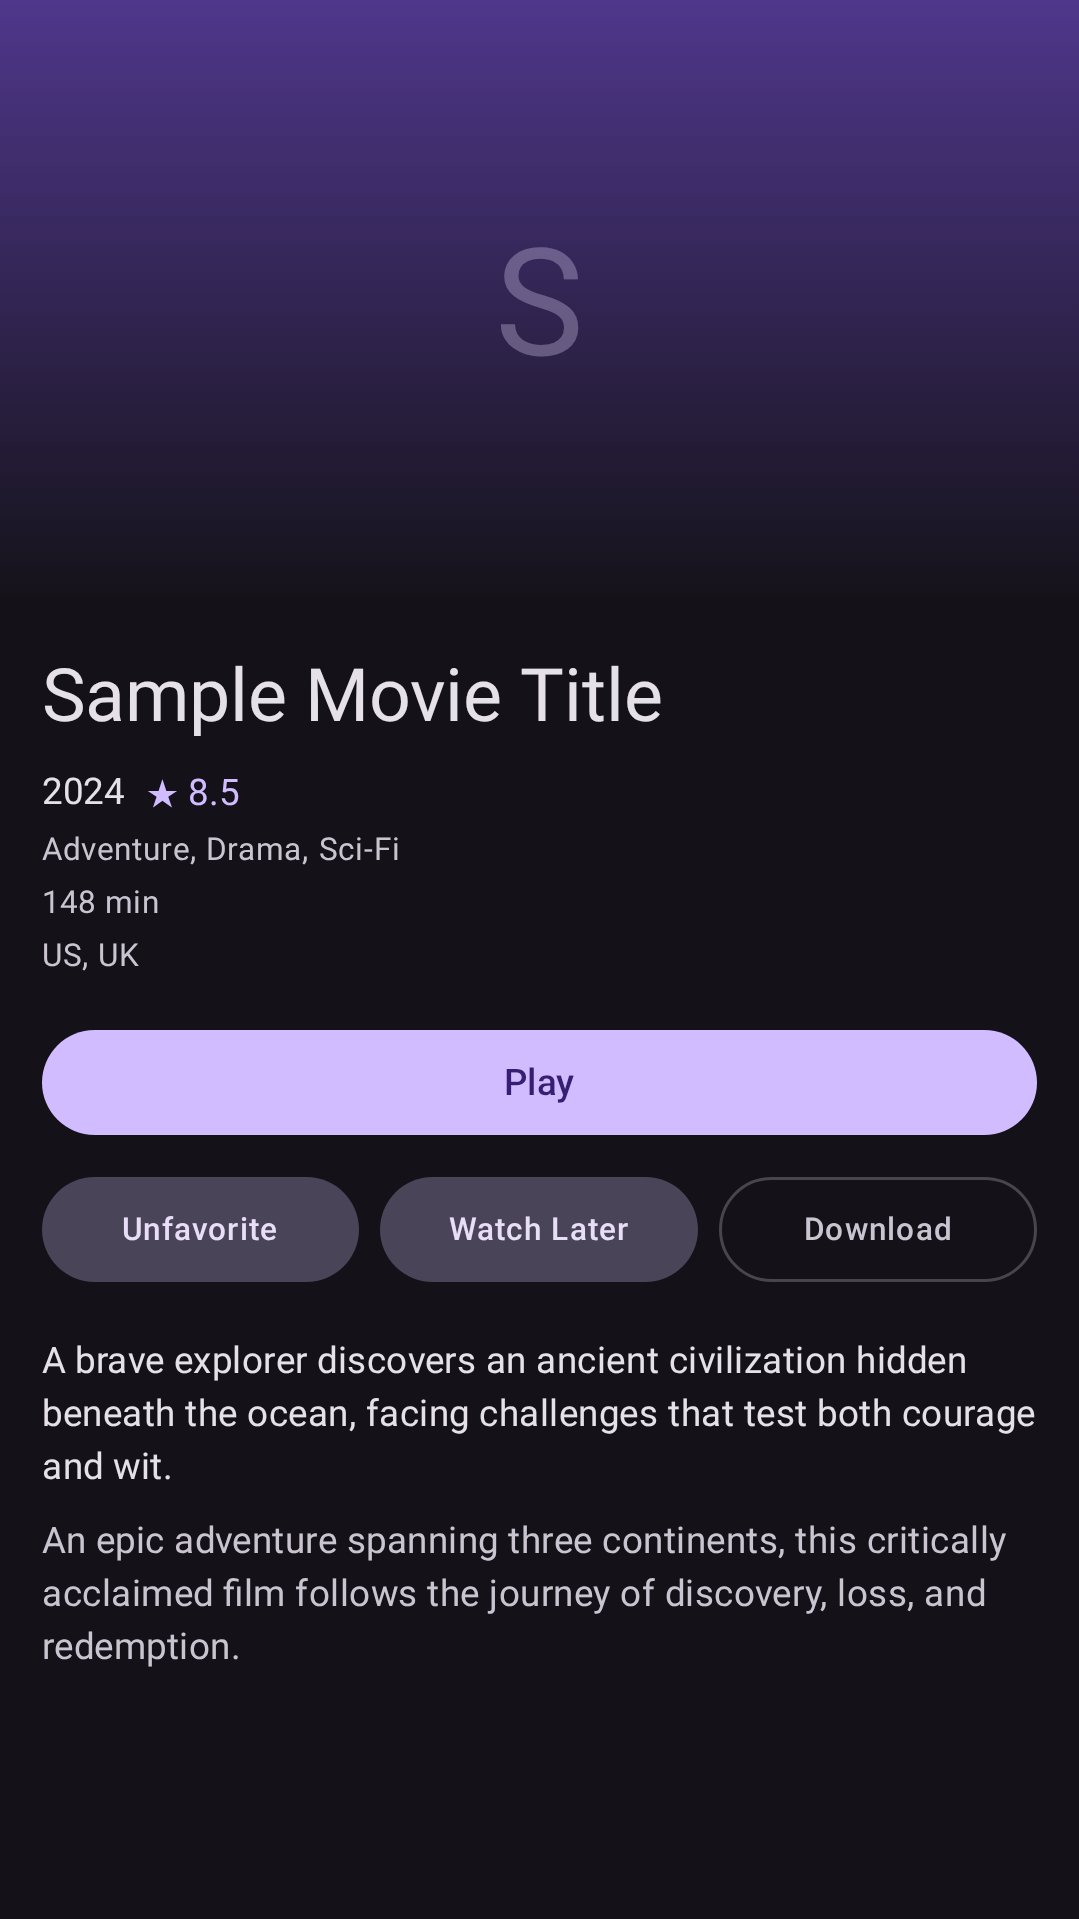
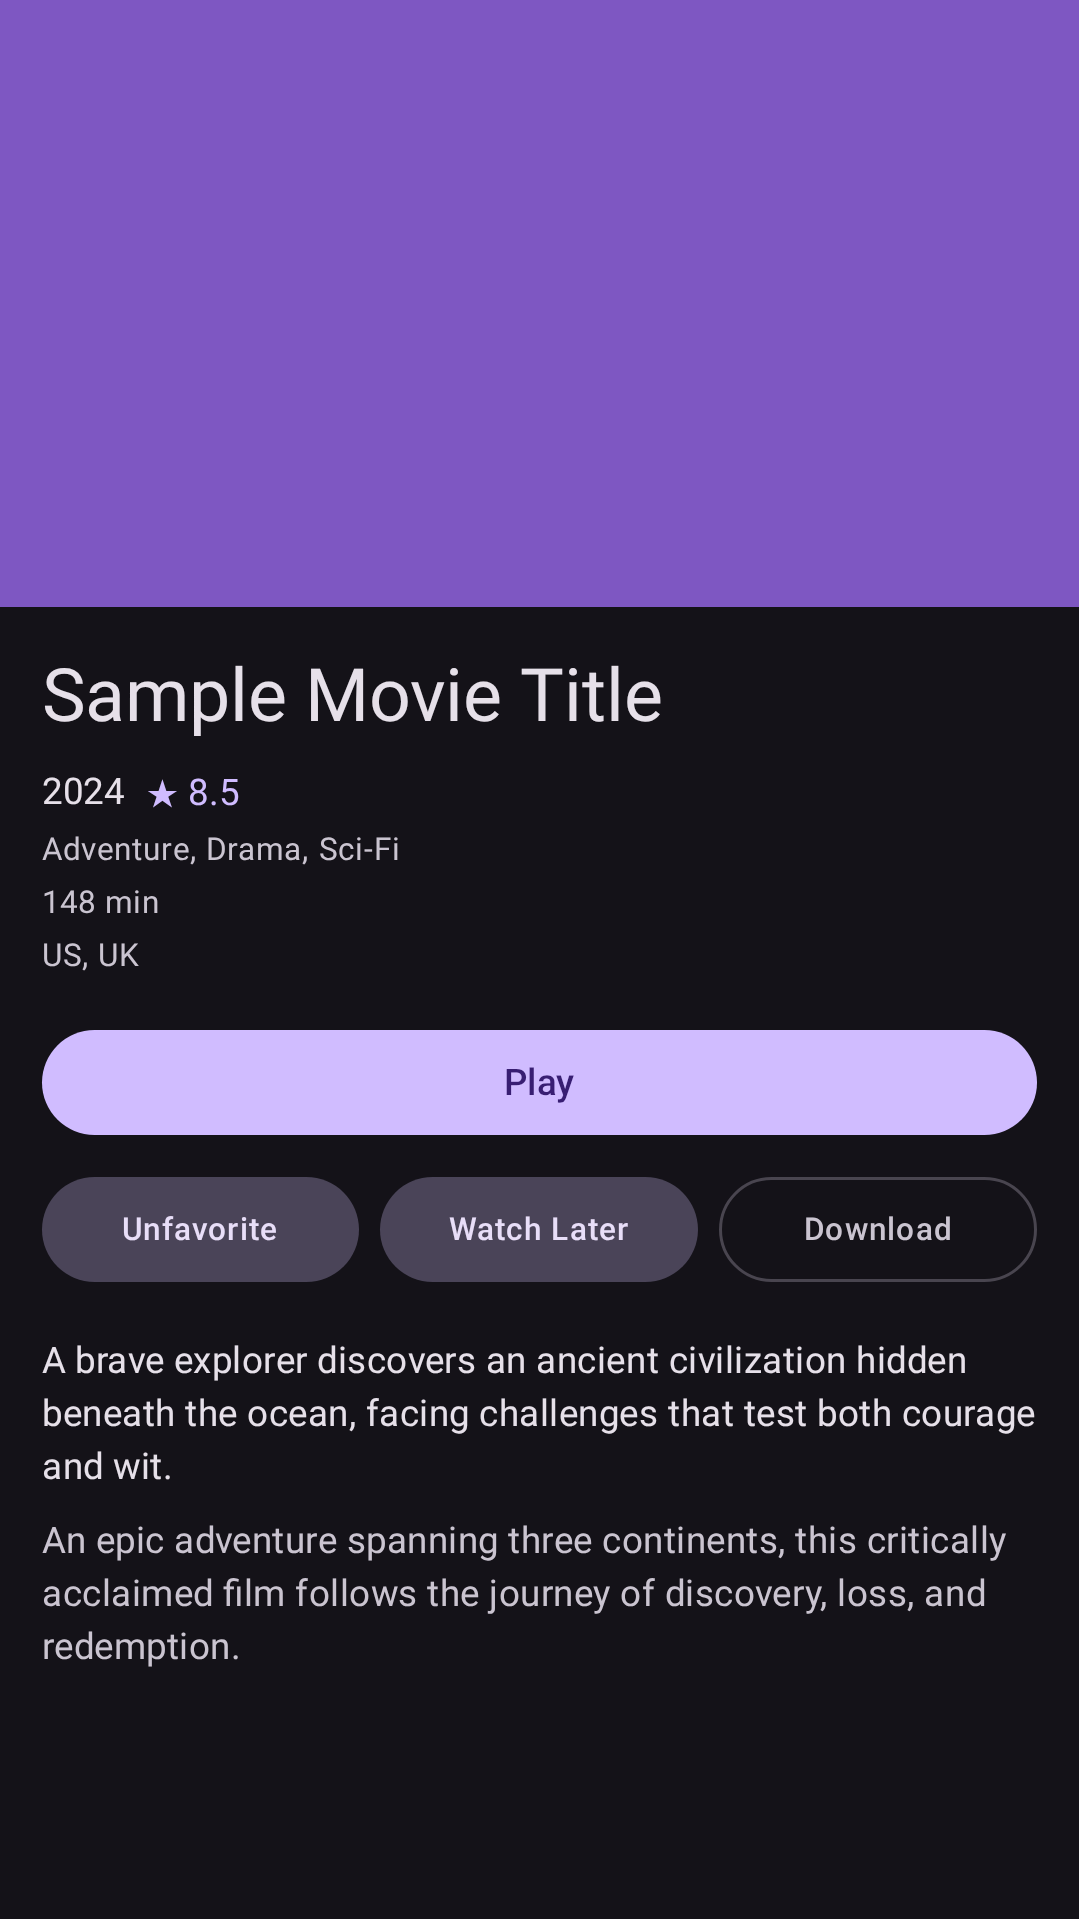
feat: load backdrop artwork on movie and series detail screens (#358)
The detail heroes rendered a gradient with the title's first letter
instead of the provider's artwork, even though poster/backdrop URLs are
mapped into the details model. Render MediaArtwork (backdrop, poster
fallback) over that placeholder in both the phone and wide layouts, and
give the detail screenshot previews artwork URLs plus the fake Coil
loader so the goldens exercise the real path.

diff --git a/feature/details/src/commonMain/kotlin/net/subsloth/details/MovieDetailScreen.kt b/feature/details/src/commonMain/kotlin/net/subsloth/details/MovieDetailScreen.kt
@@ -36,6 +36,7 @@ import androidx.compose.ui.unit.dp
 import androidx.lifecycle.compose.collectAsStateWithLifecycle
 import net.subsloth.core.ui.DownloadUnavailableNotice
 import net.subsloth.core.ui.LocalDownloadActionsEnabled
+import net.subsloth.core.ui.MediaArtwork
 import net.subsloth.core.ui.SubSlothBackButton
 import net.subsloth.core.ui.toDisplayString
 import net.subsloth.core.ui.toUiErrorMessage
@@ -168,6 +169,11 @@ private fun MovieDetailWideLayout(
                     text = details.title.take(1),
                     style = MaterialTheme.typography.displayLarge,
                     color = MaterialTheme.colorScheme.onPrimaryContainer.copy(alpha = 0.3f),
+                )
+                MediaArtwork(
+                    url = details.backdropUrl ?: details.posterUrl,
+                    contentDescription = null,
+                    modifier = Modifier.matchParentSize(),
                 )
             }
 
@@ -326,6 +332,11 @@ private fun MovieDetailCompactLayout(
                 text = details.title.take(1),
                 style = MaterialTheme.typography.displayLarge,
                 color = MaterialTheme.colorScheme.onPrimaryContainer.copy(alpha = 0.3f),
+            )
+            MediaArtwork(
+                url = details.backdropUrl ?: details.posterUrl,
+                contentDescription = null,
+                modifier = Modifier.matchParentSize(),
             )
         }
 

diff --git a/feature/details/src/commonMain/kotlin/net/subsloth/details/SeriesDetailScreen.kt b/feature/details/src/commonMain/kotlin/net/subsloth/details/SeriesDetailScreen.kt
@@ -50,6 +50,7 @@ import net.subsloth.core.model.media.Season
 import net.subsloth.core.model.media.ShowStatus
 import net.subsloth.core.ui.DownloadUnavailableNotice
 import net.subsloth.core.ui.LocalDownloadActionsEnabled
+import net.subsloth.core.ui.MediaArtwork
 import net.subsloth.core.ui.SubSlothBackButton
 import net.subsloth.core.ui.toDisplayString
 import net.subsloth.core.ui.toUiErrorMessage
@@ -233,6 +234,11 @@ private fun ShowDetailWideLayout(
                     style = MaterialTheme.typography.displayLarge,
                     color = MaterialTheme.colorScheme.onTertiaryContainer.copy(alpha = 0.3f),
                 )
+                MediaArtwork(
+                    url = details.backdropUrl ?: details.posterUrl,
+                    contentDescription = null,
+                    modifier = Modifier.matchParentSize(),
+                )
             }
 
             Spacer(modifier = Modifier.height(16.dp))
@@ -368,6 +374,11 @@ private fun ShowDetailCompactLayout(
                 text = details.title.take(1),
                 style = MaterialTheme.typography.displayLarge,
                 color = MaterialTheme.colorScheme.onTertiaryContainer.copy(alpha = 0.3f),
+            )
+            MediaArtwork(
+                url = details.backdropUrl ?: details.posterUrl,
+                contentDescription = null,
+                modifier = Modifier.matchParentSize(),
             )
         }
 

diff --git a/androidApp/src/screenshotTest/kotlin/net/subsloth/screenshot/SeriesDetailScreenshotTest.kt b/androidApp/src/screenshotTest/kotlin/net/subsloth/screenshot/SeriesDetailScreenshotTest.kt
@@ -31,6 +31,7 @@ import kotlin.time.Instant
 @Preview(name = "TV Light", device = DEVICE_TV, showBackground = true)
 @Composable
 fun SeriesDetailLightScreenshot() {
+    installFakeArtworkLoader()
     SubSlothTheme(darkTheme = false) {
         Surface(modifier = Modifier.fillMaxSize()) {
             ShowDetailContent(state = showDetailContentState())
@@ -44,6 +45,7 @@ fun SeriesDetailLightScreenshot() {
 @Preview(name = "TV Dark", device = DEVICE_TV, showBackground = true)
 @Composable
 fun SeriesDetailDarkScreenshot() {
+    installFakeArtworkLoader()
     SubSlothTheme(darkTheme = true) {
         Surface(modifier = Modifier.fillMaxSize()) {
             ShowDetailContent(state = showDetailContentState())
@@ -70,8 +72,8 @@ private fun showDetailContentState(): ShowDetailUiState.Content =
                 imdbId = null,
                 tmdbId = null,
                 countries = persistentListOf("US", "UK", "Canada"),
-                posterUrl = null,
-                backdropUrl = null,
+                posterUrl = "https://artwork.invalid/series-poster.jpg",
+                backdropUrl = "https://artwork.invalid/series-backdrop.jpg",
                 status = ShowStatus.ONGOING,
                 popularity = 95,
                 seasons =

diff --git a/androidApp/src/screenshotTest/kotlin/net/subsloth/screenshot/MovieDetailScreenshotTest.kt b/androidApp/src/screenshotTest/kotlin/net/subsloth/screenshot/MovieDetailScreenshotTest.kt
@@ -26,6 +26,7 @@ import net.subsloth.screenshot.DEVICE_TV
 @Preview(name = "TV Light", device = DEVICE_TV, showBackground = true)
 @Composable
 fun MovieDetailLightScreenshot() {
+    installFakeArtworkLoader()
     SubSlothTheme(darkTheme = false) {
         Surface(modifier = Modifier.fillMaxSize()) {
             MovieDetailContent(state = movieDetailContentState())
@@ -39,6 +40,7 @@ fun MovieDetailLightScreenshot() {
 @Preview(name = "TV Dark", device = DEVICE_TV, showBackground = true)
 @Composable
 fun MovieDetailDarkScreenshot() {
+    installFakeArtworkLoader()
     SubSlothTheme(darkTheme = true) {
         Surface(modifier = Modifier.fillMaxSize()) {
             MovieDetailContent(state = movieDetailContentState())
@@ -65,8 +67,8 @@ private fun movieDetailContentState(): MovieDetailUiState.Content =
                 imdbId = null,
                 tmdbId = null,
                 countries = persistentListOf("US", "UK"),
-                posterUrl = null,
-                backdropUrl = null,
+                posterUrl = "https://artwork.invalid/detail-poster.jpg",
+                backdropUrl = "https://artwork.invalid/detail-backdrop.jpg",
             ),
         isFavorite = true,
         isWatchLater = false,
